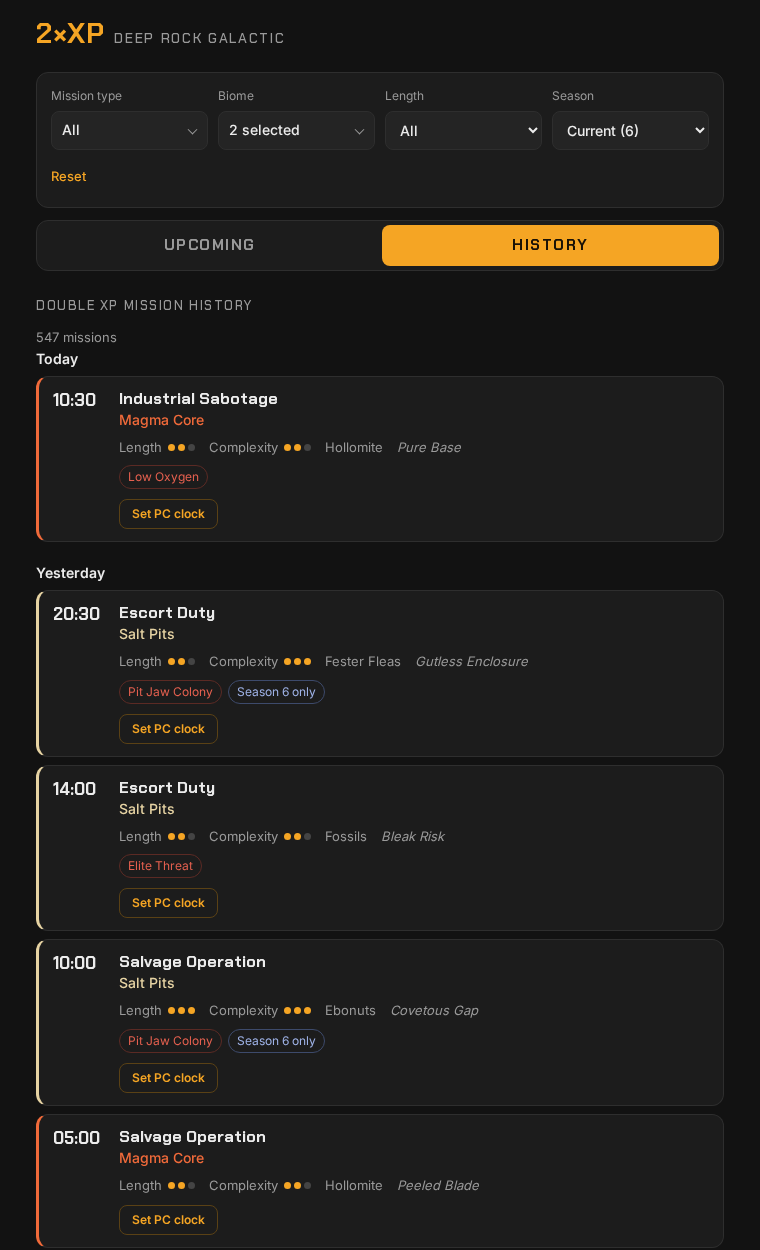
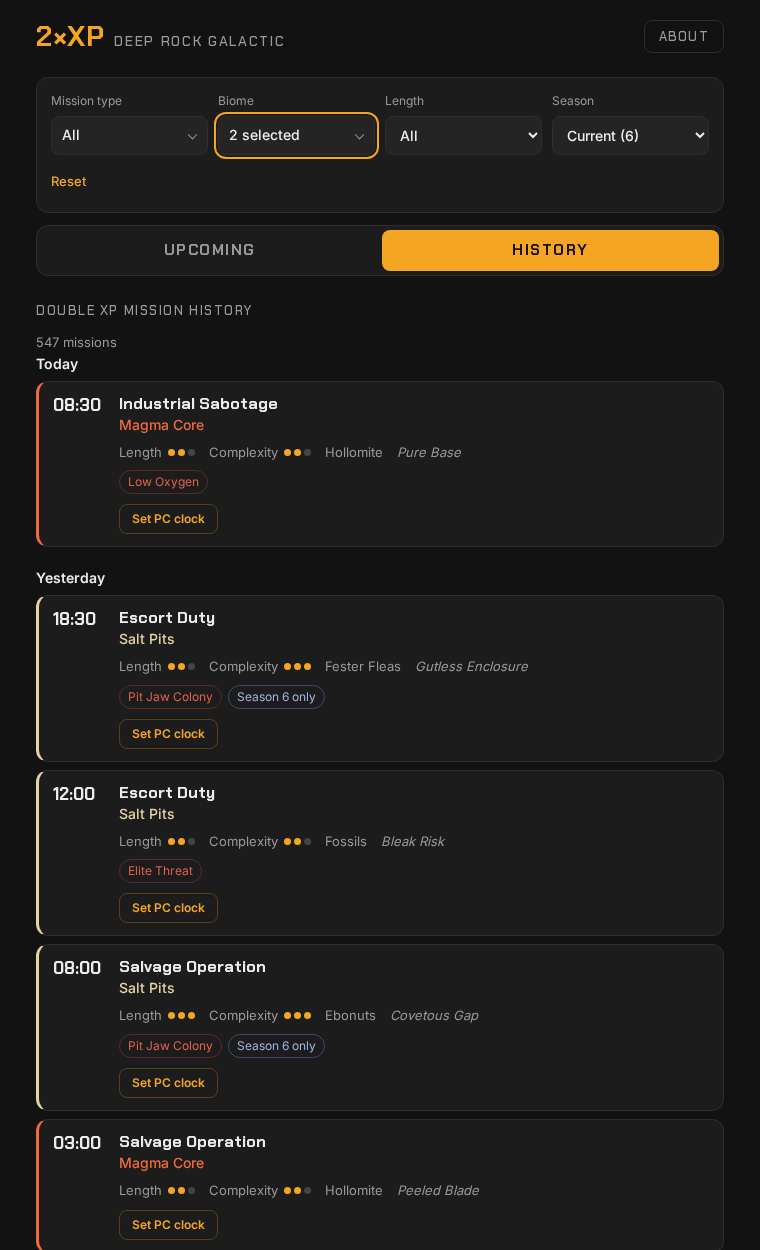
About link, reassuring helper dialog, optional visit statistics
- "About" link at the top of the pages, to the README of the repository
  being built (GITHUB_REPOSITORY in GitHub Actions; no link otherwise).
- The clock dialog explains that the helper is a readable text script,
  shows it ("Read the script here") with a "Copy the script" button, and
  describes the copy-paste alternative to downloading it.
- Optional visit statistics with GoatCounter (no cookies, no personal
  data), enabled by the DRG_GOATCOUNTER repository variable: page views
  and a few anonymous actions (helper read/copy/download, set/restore
  clock, filters, load more).
- README: no hard-coded account links; privacy section updated.
- Screenshots taken in UTC.

diff --git a/site/common.js b/site/common.js
@@ -1,6 +1,38 @@
 // Shared rendering of the missions (upcoming and history pages).
 const SLOT_MS = 30 * 60 * 1000; // a mission stays available for 30 min
 
+const CONFIG = window.DRG_CONFIG || {};
+
+// Visit statistics (GoatCounter: no cookies, no personal data), only when a site code is configured.
+// Page views are counted without the query string, so that every filter combination is not a separate page.
+if (/^[a-z0-9-]+$/.test(CONFIG.goatcounter || '')) {
+  window.goatcounter = { path: () => location.pathname };
+  const script = document.createElement('script');
+  script.async = true;
+  script.dataset.goatcounter = `https://${CONFIG.goatcounter}.goatcounter.com/count`;
+  script.src = 'https://gc.zgo.at/count.js';
+  document.head.appendChild(script);
+}
+
+// Name of the filter changed by a form event (checkbox lists carry it on their hidden field).
+function filterName(event) {
+  const multi = event.target.closest && event.target.closest('.multi');
+  return multi ? multi.querySelector('input[type=hidden]').name : event.target.name;
+}
+
+// Counts an action (event) in the statistics; does nothing without statistics.
+function track(name) {
+  if (window.goatcounter && window.goatcounter.count) {
+    window.goatcounter.count({ path: name, title: name, event: true });
+  }
+}
+
+// "About" link at the top of the pages, to the project's README.
+if (/^https:\/\//.test(CONFIG.readmeUrl || '')) {
+  document.querySelector('.header').insertAdjacentHTML('beforeend',
+    `<a class="about-link" href="${escapeHtml(CONFIG.readmeUrl)}" rel="noopener" data-readme>About</a>`);
+}
+
 const BIOME_COLORS = {
   'Crystalline Caverns': '#6fc3e8',
   'Salt Pits': '#e6d3a3',
@@ -74,10 +106,31 @@ const CLOCK_DIALOG = `
     <p>A web page can't change your clock by itself, so this uses a small helper installed once on your PC
       (Windows only). <strong>Set clock</strong> asks the helper to change your Windows clock to the time above.
       Afterwards, press <a href="drgtime://reset">Restore PC clock</a>: a shifted clock can disturb other apps and logins.</p>
+    <div class="reassure">
+      <p><strong>The helper is not a program.</strong> It is a plain text PowerShell script, about 130 lines with
+        comments, that you can read from top to bottom before running anything. No compiled code, no installer,
+        nothing hidden.</p>
+      <ul>
+        <li>Nothing is sent over the network.</li>
+        <li>Nothing keeps running in the background: Windows starts it only when you press a button here.</li>
+        <li>It can only set the clock (to a date between 2020 and 2035) or restore it.</li>
+        <li>You can uninstall it at any time.</li>
+      </ul>
+      <details id="script-view">
+        <summary>Read the script here</summary>
+        <div class="script-actions">
+          <button type="button" class="button" id="script-copy">Copy the script</button>
+        </div>
+        <pre id="script-source" tabindex="0">Loading…</pre>
+      </details>
+    </div>
     <h3>First time? Install the helper</h3>
     <ol>
-      <li><a href="clock-helper.ps1" download>Download the clock helper</a> (<code>clock-helper.ps1</code>).
-        It goes to your Downloads folder.</li>
+      <li><a href="clock-helper.ps1" download id="script-download">Download the clock helper</a>
+        (<code>clock-helper.ps1</code>). It goes to your Downloads folder.<br>
+        <span class="muted">Prefer not to download a file? Press <strong>Copy the script</strong> above, paste it into
+        Notepad, save it in your Downloads folder as <code>clock-helper.txt</code>, then rename it to
+        <code>clock-helper.ps1</code>. It is exactly the same file.</span></li>
       <li>Open <strong>PowerShell</strong> (Start menu, type "PowerShell") and run this command
         (change the path if your browser saves files elsewhere):<br>
         <code>powershell -ExecutionPolicy Bypass -File "$env:USERPROFILE\\Downloads\\clock-helper.ps1"</code><br>
@@ -96,6 +149,37 @@ const CLOCK_DIALOG = `
 
 function lowerFirst(text) {
   return text.charAt(0).toLowerCase() + text.slice(1);
+}
+
+// "Read the script here": the source is loaded the first time the section is opened.
+async function showScript() {
+  const pre = document.getElementById('script-source');
+  if (pre.dataset.loaded) return;
+  try {
+    const response = await fetch('clock-helper.ps1', { cache: 'no-cache' });
+    if (!response.ok) throw new Error(response.status);
+    pre.textContent = await response.text();
+    pre.dataset.loaded = '1';
+  } catch (e) {
+    pre.textContent = 'Could not load the script. Use the download link below and open it in Notepad.';
+  }
+}
+
+async function copyScript() {
+  await showScript();
+  const pre = document.getElementById('script-source');
+  if (!pre.dataset.loaded) return;
+  try {
+    await navigator.clipboard.writeText(pre.textContent);
+    showClockToast('Script copied. Paste it into Notepad, save it as clock-helper.txt, then rename it to clock-helper.ps1.');
+  } catch (e) {
+    // Clipboard refused (permissions, old browser): select the text so that Ctrl+C works.
+    const range = document.createRange();
+    range.selectNodeContents(pre);
+    getSelection().removeAllRanges();
+    getSelection().addRange(range);
+    showClockToast('Press Ctrl+C to copy the selected script.');
+  }
 }
 
 // With a mission button: confirmation before acting. Without (footer link): plain help.
@@ -144,21 +228,39 @@ document.getElementById('clock-dialog').addEventListener('click', (e) => {
   if (outside) dialog.close(); // click on the backdrop, not inside the window
 });
 
+document.getElementById('script-view').addEventListener('toggle', (e) => {
+  if (e.target.open) {
+    showScript();
+    track('helper-read-script');
+  }
+});
+
 document.addEventListener('click', (e) => {
   if (!e.target.closest) return;
   const button = e.target.closest('.clock-button');
   if (button) {
     openClockDialog(button);
+    track('set-pc-clock-dialog');
   } else if (e.target.closest('[data-clock-help]')) {
     openClockDialog(null);
+    track('helper-help-dialog');
+  } else if (e.target.closest('#script-copy')) {
+    copyScript();
+    track('helper-copy-script');
+  } else if (e.target.closest('#script-download')) {
+    track('helper-download');
+  } else if (e.target.closest('[data-readme]')) {
+    track('readme');
   } else if (e.target.closest('#clock-cancel')) {
     document.getElementById('clock-dialog').close();
   } else if (e.target.closest('#clock-confirm')) {
+    track('set-clock');
     // The drgtime:// link opens normally; we close the window and say the request has been sent.
     document.getElementById('clock-dialog').close();
     showClockToast('Request sent. If nothing happens, install the helper first '
       + '("PC clock helper" at the bottom of the page).');
   } else if (e.target.closest('a[href="drgtime://reset"]')) {
+    track('restore-clock');
     showClockToast('Restore request sent.');
   }
 });

diff --git a/site/styles.css b/site/styles.css
@@ -40,6 +40,18 @@ a { color: var(--amber); }
   padding-bottom: 8px;
 }
 .brand { display: flex; align-items: baseline; gap: 10px; text-decoration: none; }
+.about-link {
+  font: 500 13px/1 'Chakra Petch', sans-serif;
+  text-transform: uppercase;
+  letter-spacing: 0.1em;
+  color: var(--muted);
+  text-decoration: none;
+  border: 1px solid var(--border);
+  border-radius: 8px;
+  padding: 9px 14px;
+}
+.about-link:hover { color: var(--amber); border-color: var(--amber); }
+.about-link:focus-visible { outline: 2px solid var(--amber); outline-offset: 2px; }
 
 /* Tabs: full-width bar under the filters */
 .tabs {
@@ -226,6 +238,31 @@ a { color: var(--amber); }
   overflow-wrap: anywhere;
 }
 .dialog .note { color: var(--muted); font-size: 13px; }
+.dialog .muted { color: var(--muted); font-size: 13px; }
+.reassure {
+  background: var(--card-raised);
+  border: 1px solid #2f4a2f;
+  border-left: 3px solid #6fbf6f;
+  border-radius: 8px;
+  padding: 4px 14px 12px;
+  margin: 16px 0;
+}
+.reassure ul { padding-left: 20px; margin: 6px 0 10px; }
+.reassure li { margin: 2px 0; }
+.reassure summary { cursor: pointer; color: var(--amber); font-size: 14px; font-weight: 600; }
+.reassure summary:focus-visible { outline: 2px solid var(--amber); outline-offset: 2px; }
+.script-actions { margin: 10px 0 8px; }
+#script-source {
+  max-height: 260px;
+  overflow: auto;
+  margin: 0;
+  padding: 10px 12px;
+  background: var(--bg, #121212);
+  border: 1px solid var(--border);
+  border-radius: 6px;
+  font: 12px/1.45 ui-monospace, Consolas, monospace;
+  white-space: pre;
+}
 .dialog-actions { display: flex; justify-content: flex-end; gap: 10px; margin-top: 18px; }
 .dialog-actions .button { text-decoration: none; display: inline-block; }
 

diff --git a/site/app.js b/site/app.js
@@ -118,16 +118,19 @@ async function start() {
   load();
 }
 
-form.addEventListener('change', () => {
+form.addEventListener('change', (e) => {
+  track(`filter-${filterName(e)}`);
   updateAddress(currentFilters(), defaultFilters);
   refresh();
 });
 document.getElementById('reset').addEventListener('click', () => {
+  track('filter-reset');
   applyFilters(form, defaultFilters);
   updateAddress(currentFilters(), defaultFilters);
   refresh();
 });
 nextDayButton.addEventListener('click', async () => {
+  track('load-one-more-day');
   days += 1;
   if (!(await load())) days -= 1; // failed: keep the period already shown
 });

diff --git a/site/config.js b/site/config.js
@@ -6,4 +6,7 @@
 //
 // currentSeason is only used in "static" mode, to force the current season (in "api" mode it comes
 // from DRG_CURRENT_SEASON). Empty: deduced from the data, like the API does.
-window.DRG_CONFIG = { mode: 'api', currentSeason: '' };
+// readmeUrl : address of the project's README, shown as an "About" link at the top of the pages (none if empty).
+// goatcounter: GoatCounter site code for the visit statistics (none if empty).
+// tools/build_static.py fills both for GitHub Pages.
+window.DRG_CONFIG = { mode: 'api', currentSeason: '', readmeUrl: '', goatcounter: '' };

diff --git a/site/history.js b/site/history.js
@@ -65,12 +65,17 @@ async function start() {
   search();
 }
 
-form.addEventListener('change', () => search());
+form.addEventListener('change', (e) => {
+  track(`filter-${filterName(e)}`);
+  search();
+});
 document.getElementById('reset').addEventListener('click', () => {
+  track('filter-reset');
   applyFilters(form, defaultValues());
   search();
 });
 moreButton.addEventListener('click', () => {
+  track('history-show-more');
   page += 1;
   search(true);
 });

diff --git a/tools/build_static.py b/tools/build_static.py
@@ -3,12 +3,14 @@
 
 Produced content:
   - a copy of site/;
-  - config.js in "static" mode (with the current season);
+  - config.js in "static" mode (current season, README link, visit statistics);
   - data/missions.json, built from data/days/*.json.
 
 Usage: build_static.py [--season s6] [--days data/days] [--site site] [--output dist]
 The season forced as current comes from the DRG_CURRENT_SEASON environment variable. Without it, the
 site deduces the current season from the data (the most recent season of the recent missions).
+The "About" link points to the README of the repository being built (GITHUB_REPOSITORY, set by GitHub
+Actions), or to --readme-url. Visit statistics are enabled by a GoatCounter site code (DRG_GOATCOUNTER).
 """
 import argparse
 import json
@@ -28,23 +30,36 @@ def read_missions(days_folder):
     return missions
 
 
+def default_readme_url():
+    repository = os.environ.get("GITHUB_REPOSITORY", "")  # "owner/name" inside GitHub Actions
+    server = os.environ.get("GITHUB_SERVER_URL", "https://github.com")
+    return f"{server}/{repository}#readme" if repository else ""
+
+
 def main(argv=None):
     parser = argparse.ArgumentParser(description=__doc__.splitlines()[0])
     parser.add_argument("--season", default=os.environ.get("DRG_CURRENT_SEASON", ""))
     parser.add_argument("--days", default="data/days")
     parser.add_argument("--site", default="site")
     parser.add_argument("--output", default="dist")
+    parser.add_argument("--readme-url", default=default_readme_url())
+    parser.add_argument("--goatcounter", default=os.environ.get("DRG_GOATCOUNTER", ""))
     args = parser.parse_args(argv)
 
     if args.season and not re.fullmatch(r"s\d+", args.season):
         sys.exit(f"Invalid season: {args.season!r} (expected: s followed by a number, e.g. s6)")
+    if args.goatcounter and not re.fullmatch(r"[a-z0-9-]+", args.goatcounter):
+        sys.exit(f"Invalid GoatCounter code: {args.goatcounter!r} (expected the code of yourcode.goatcounter.com)")
+    if args.readme_url and not args.readme_url.startswith("https://"):
+        sys.exit(f"Invalid README address: {args.readme_url!r} (expected https://...)")
 
     output = Path(args.output)
     if output.exists():
         shutil.rmtree(output)
     shutil.copytree(args.site, output)
 
-    config = {"mode": "static", "currentSeason": args.season}
+    config = {"mode": "static", "currentSeason": args.season, "readmeUrl": args.readme_url,
+              "goatcounter": args.goatcounter}
     (output / "config.js").write_text(
         "// Generated by tools/build_static.py: GitHub Pages mode.\n"
         f"window.DRG_CONFIG = {json.dumps(config)};\n",

diff --git a/tests/test_tools.py b/tests/test_tools.py
@@ -155,6 +155,29 @@ class StaticSiteBuild(unittest.TestCase):
                 build_static.main(["--days", str(days), "--site", str(site), "--output", str(tmp / "dist")])
             self.assertIn('"currentSeason": ""', (tmp / "dist" / "config.js").read_text(encoding="utf-8"))
 
+    def build_config(self, env, *args):
+        with tempfile.TemporaryDirectory() as tmp:
+            tmp = Path(tmp)
+            days, site = self.prepare(tmp)
+            clean = {"GITHUB_REPOSITORY": "", "DRG_GOATCOUNTER": "", "DRG_CURRENT_SEASON": ""}
+            with contextlib.redirect_stdout(io.StringIO()), mock.patch.dict(os.environ, {**clean, **env}):
+                build_static.main(["--days", str(days), "--site", str(site), "--output", str(tmp / "dist"), *args])
+            text = (tmp / "dist" / "config.js").read_text(encoding="utf-8")
+            return json.loads(text[text.index("{"):text.rindex("}") + 1])
+
+    def test_readme_link_and_statistics(self):
+        config = self.build_config({"GITHUB_REPOSITORY": "owner/repo", "DRG_GOATCOUNTER": "my-site"})
+        self.assertEqual(config["readmeUrl"], "https://github.com/owner/repo#readme")
+        self.assertEqual(config["goatcounter"], "my-site")
+
+    def test_no_readme_link_nor_statistics_by_default(self):
+        config = self.build_config({})
+        self.assertEqual((config["readmeUrl"], config["goatcounter"]), ("", ""))
+
+    def test_invalid_statistics_code(self):
+        with self.assertRaises(SystemExit):
+            self.build_config({"DRG_GOATCOUNTER": "https://evil.example/x"})
+
     def test_invalid_season(self):
         with tempfile.TemporaryDirectory() as tmp:
             tmp = Path(tmp)

diff --git a/README.md b/README.md
@@ -1,12 +1,8 @@
 # DRG Double XP
 
-[![Pages](https://github.com/karlwashere/drg-double-xp/actions/workflows/pages.yml/badge.svg)](https://github.com/karlwashere/drg-double-xp/actions/workflows/pages.yml)
-[![Tests](https://github.com/karlwashere/drg-double-xp/actions/workflows/tests.yml/badge.svg)](https://github.com/karlwashere/drg-double-xp/actions/workflows/tests.yml)
 [![License: MIT](https://img.shields.io/badge/license-MIT-blue.svg)](LICENSE)
 
 A small website that shows the **Double XP missions of [Deep Rock Galactic](https://www.deeprockgalactic.com/)**: what is live right now, what is coming in the next days, and a searchable archive of everything since May 2026. An optional Windows helper adds a **"Set PC clock"** button that sets your computer's clock to a mission's start time, so you can actually play it.
-
-**Live demo (GitHub Pages): <https://karlwashere.github.io/drg-double-xp/>**
 
 | Upcoming | History |
 | --- | --- |
@@ -49,8 +45,8 @@ A web page cannot change your operating system's clock, so the button relies on 
 
 If downloading a file makes you uneasy, you do not have to download it at all. Create it yourself:
 
-1. Open [the script on GitHub](site/clock-helper.ps1) and click **Raw** to see it as plain text. Read it if you like.
-2. Select everything (<kbd>Ctrl</kbd>+<kbd>A</kbd>), copy it (<kbd>Ctrl</kbd>+<kbd>C</kbd>), and paste it into a new **Notepad** document.
+1. On the site, open the help dialog (**Set PC clock**, or **PC clock helper** at the bottom of the page), then **Read the script here** and **Copy the script**. Or open [the script on GitHub](site/clock-helper.ps1), click **Raw**, select everything (<kbd>Ctrl</kbd>+<kbd>A</kbd>) and copy it (<kbd>Ctrl</kbd>+<kbd>C</kbd>). Read it if you like.
+2. Paste it into a new **Notepad** document.
 3. Save it in your **Downloads** folder as `clock-helper.txt`.
 4. Rename it to `clock-helper.ps1`. If Windows hides the `.txt` part, turn on *File name extensions* in File Explorer (**View → Show** on Windows 11, **View** tab on Windows 10).
 
@@ -124,7 +120,8 @@ Changing the clock can affect online services and other software. Use it at your
 
 ## Privacy
 
-- No cookies, no analytics, no accounts, no tracking.
+- No cookies, no accounts, no ads.
+- **Visit statistics**, only when the site owner configures them (GitHub Pages: repository variable `DRG_GOATCOUNTER`): the pages then load [GoatCounter](https://www.goatcounter.com/), an open-source statistics service that uses **no cookies** and **stores no personal data**. It counts page views (without the address's filters), where visitors come from (referring site, country), browser and screen size, and a few anonymous actions: opening the clock dialog, reading, copying or downloading the helper script, *Set clock* / *Restore PC clock*, filter changes, *Load one more day* and *Show more*. Nothing is counted when the variable is not set, nor on a self-hosted server.
 - The pages load two web fonts (*Chakra Petch* and *Inter*) from Google Fonts. Remove the three `<link>` lines in `site/index.html` and `site/history.html` if you want zero third-party requests (the fonts then fall back to system fonts).
 - The only thing kept in your browser is your last filters (`localStorage`, key `drg-filters`), so that they are back on your next visit. *Reset* clears them.
 - The helper runs locally and never contacts the network.
